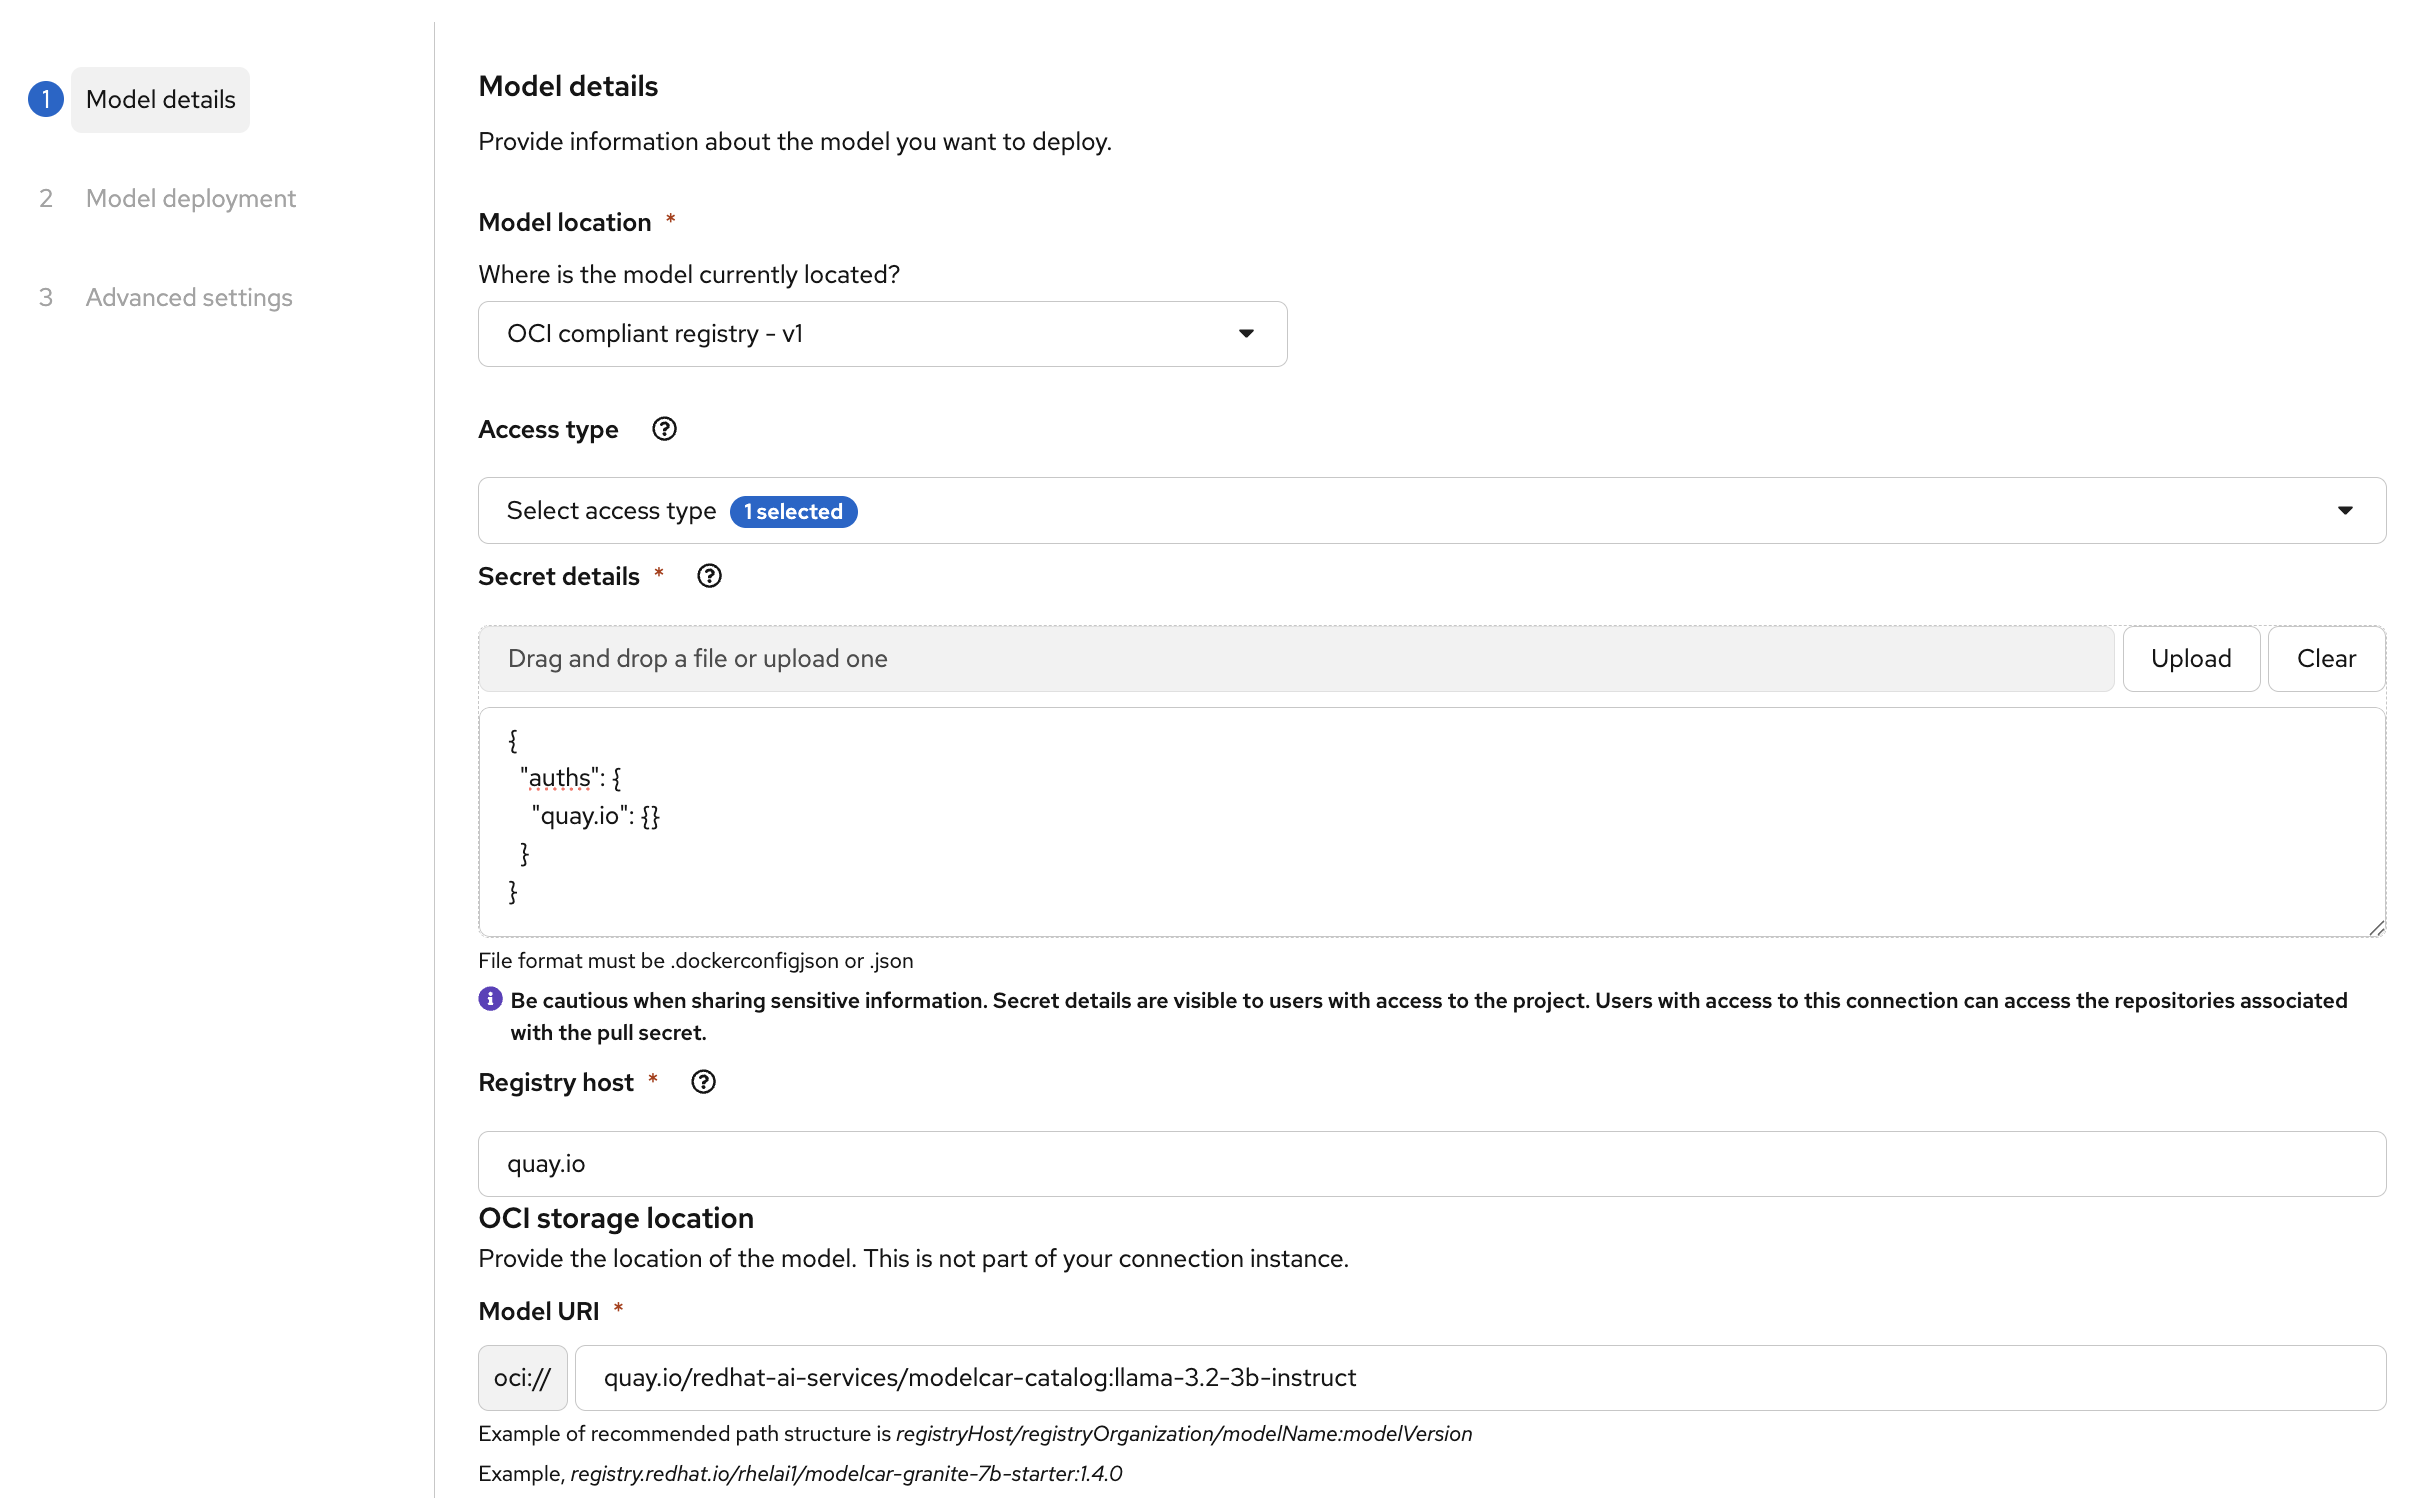
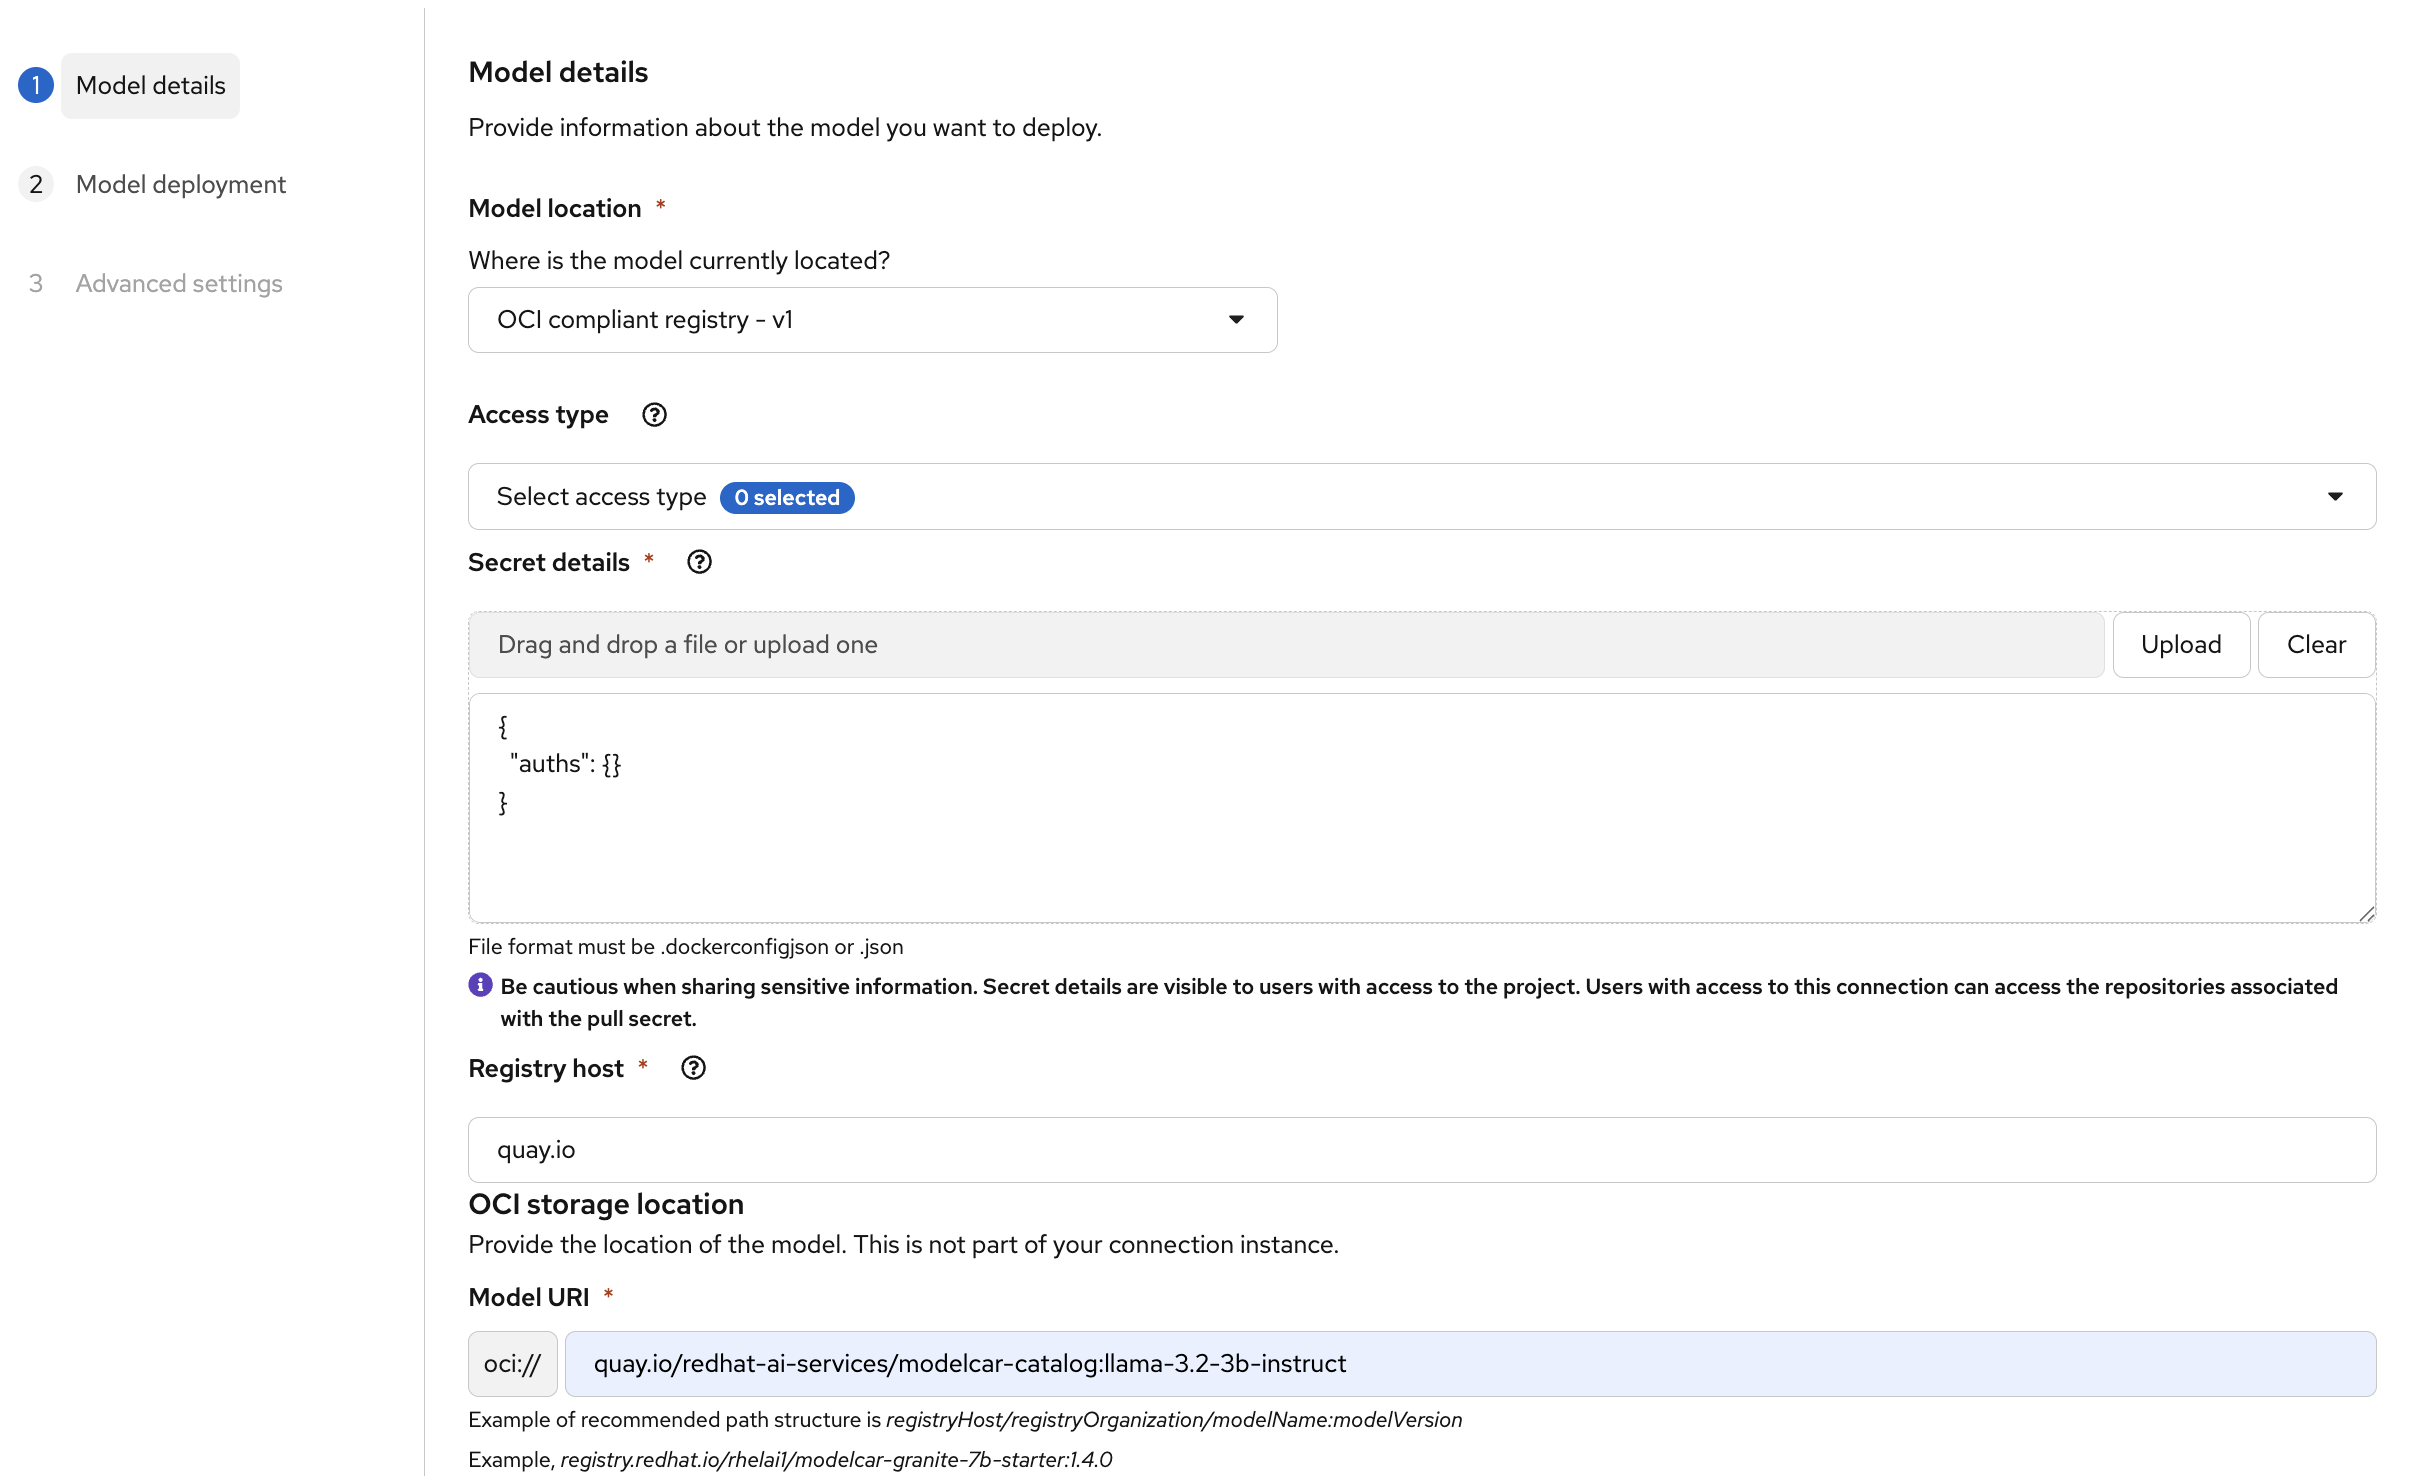
🌿ADD - deploy models from public OCI🌿

diff --git a/docs/odh-rhoai/deploy-models-from-public-oci.md b/docs/odh-rhoai/deploy-models-from-public-oci.md
@@ -29,14 +29,9 @@ Alternatively, you can use the **OCI compliant registry - v1** option, but this 
 
 ```json
 {
-  "auths": {
-    "quay.io": {}
-  }
+  "auths": {}
 }
 ```
-
-!!! note
-    Replace `quay.io` with your registry hostname (e.g., `docker.io`, `ghcr.io`, etc.)
 
 ![OCI registry deployment with secret](./public-oci/oci-secret-option.png)
 
